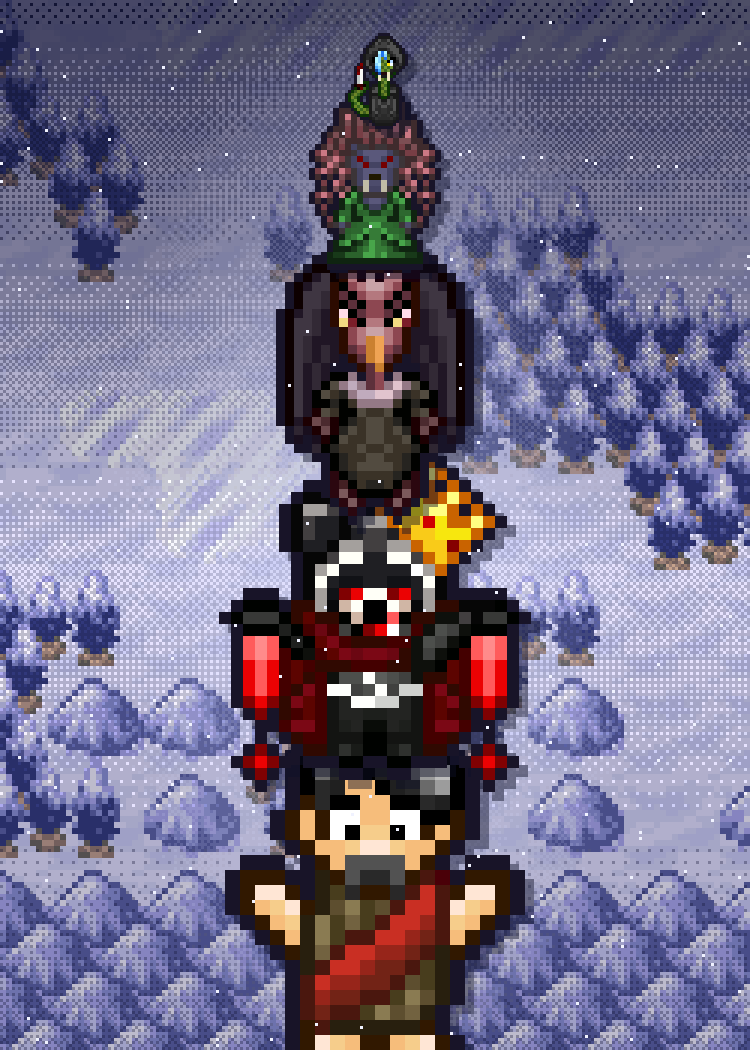
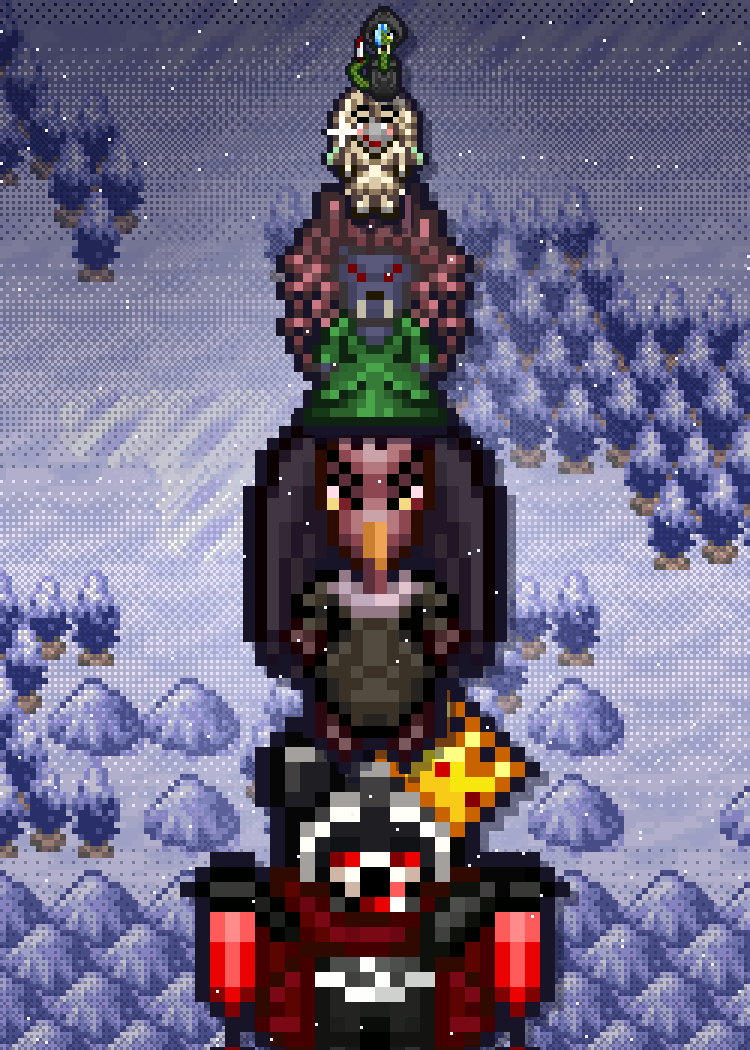
Sleeve-Entwürfe Runde 3: Block C (14–19, Steam Dwarfs/Russland) und Zwischenstand
Claude-Session: https://claude.ai/code/session_01TEnvTzH2xD44R6Unjv7vDo

Changed region(s): [[0.2453, 0.0, 0.7667, 1.0]]

diff --git a/data/sleeve-proposals/runde3/generator/s19_dream_tower.py b/data/sleeve-proposals/runde3/generator/s19_dream_tower.py
@@ -1,14 +1,14 @@
 # -*- coding: utf-8 -*-
 """Sleeve 19 – Matrjoschka-Turm der Dream Landers.
 
-Die Dream Landers stehen einander auf den Schultern – und werden dabei wie Matrjoschka-Puppen
-nach oben hin Stufe um Stufe kleiner (5×, 4×, 3×, 2×, 1×): unten Stellin, darauf Smug Mastermind
-Antonia mit Krone, dann Vullary, Rafflesia und ganz oben der winzige Clausss. Dahinter der
+Die Dream Landers stehen einander auf den Köpfen – und werden dabei wie Matrjoschka-Puppen
+nach oben hin Stufe um Stufe kleiner (5×, 4×, 3×, 2×, 1×): unten Smug Mastermind Antonia mit
+Krone, darauf Vullary, Rafflesia, Smugbeth und ganz oben der winzige Clausss. Dahinter der
 verschneite Nadelwald des Nordens im Schneetreiben, ein fahler Lichtkranz hebt den Turm hervor.
 
 Quellen (MotiveRussia.xcf):
-  Stellin   = Ebene 142 „Ebene #97“          Antonia  = Ebene 218 „MONIA“
-  Vullary   = Ebene 215 „MARY“               Rafflesia = Ebene 228 „RAFFLESIA“
+  Antonia   = Ebene 218 „MONIA“              Vullary   = Ebene 215 „MARY“
+  Rafflesia = Ebene 228 „RAFFLESIA“          Smugbeth  = Ebene 204 „SMUGBETH“
   Clausss   = Ebene 210 „CLAUSSS“
   Wald/Schnee = Ebene 221 „Ebene #6“ (Kulisse der Dream-Lander-Karten)
   Schneeflocken = Ebene 64 „Ebene #122“ (nur deckende Pixel)
@@ -36,14 +36,14 @@ for y in range(H):
             cv.a[y, x] = (cv.a[y, x] * (1 - q * 0.6) + np.array((210, 214, 250)) * q * 0.6).astype(np.uint8)
 
 # ---------- Turm: von unten nach oben, jede Figur steht auf dem Kopf/den Schultern der darunter
-figs = [('c19_stellin', [142], 5), ('c19_antonia', [218], 4), ('c19_vullary', [215], 3),
-        ('c19_raff', [228], 2), ('c19_clausss', [210], 1)]
+figs = [('c19_antonia', [218], 5, None), ('c19_vullary', [215], 4, None), ('c19_raff', [228], 3, None),
+        ('c19_smugbeth', [204], 2, (280, 205, 305, 235)), ('c19_clausss', [210], 1, None)]
 # Zeilen (nativ) über dem Gesicht, auf denen die nächste Figur mit den Füßen steht
-head_top = {'c19_stellin': 4, 'c19_antonia': 5, 'c19_vullary': 3, 'c19_raff': 5, 'c19_clausss': 0}
+head_top = {'c19_antonia': 5, 'c19_vullary': 3, 'c19_raff': 5, 'c19_smugbeth': 3, 'c19_clausss': 0}
 placed = []
-base = H + 10                     # Stellins Füße ragen unten aus dem Bild
-for key, idx, k in figs:
-    s = sprite(key, RU, idx)
+base = H + 14                     # Antonias Füße ragen unten aus dem Bild
+for key, idx, k, box in figs:
+    s = sprite(key, RU, idx, box=box)
     S = up(s, k)
     y = base - S.shape[0]
     x = CX - S.shape[1] // 2

diff --git a/data/sleeve-proposals/runde3/generator/s31_phoenix.py b/data/sleeve-proposals/runde3/generator/s31_phoenix.py
@@ -1,0 +1,65 @@
+# -*- coding: utf-8 -*-
+"""31 Phönix-Aufstieg – Prinzessin Mary steigt mit Phönixflügeln aus einer Flammensäule in den rosa Himmel.
+
+Quellen (MotiveMoe.xcf):
+  - Ebene 556 „Hintergrund-Kopie #1“: rosa Wolkenhimmel (Karte „Cute Princess Mary“)
+  - Ebene 486 „Mary-Kopie“ + 487 „Mary #1“: Mary in Phönixgestalt mit Flügeln (Karte „Cute Princess Mary“), 4x
+  - Ebene 488 „Mary #3“: Flammenkranz, 2x
+  - Ebene 422 „Cute Phoenix“: Flammensäule/Feuerschweif (Karte „Cute Phoenix“), 3x
+  - Ebene 220 „Ebene #105“: kleine Feuervögel (Karte „Victory Phoenix Cannon“), 3x
+  Strahlenkranz: gedithert, selbst erstellt in den Orangetönen der Karte.
+"""
+from common import *
+import numpy as np, math
+
+F = 'MotiveMoe'
+W_, H_ = 250, 350
+
+
+def build():
+    cv = Canvas(W_, H_)
+    sky = layer(F, 556)[63:376, 100:350, :3]           # 313 Zeilen
+    ext = sky[::-1][:H_ - sky.shape[0]]
+    cv.a[:] = np.concatenate([sky, ext], 0)
+
+    # Strahlenkranz um die Mitte (Farbe wie im Kartenhintergrund)
+    CX, CY = 125, 128
+    Y, X = np.mgrid[0:H_, 0:W_]
+    ang = np.arctan2(Y - CY, X - CX)
+    r = np.hypot(X - CX, Y - CY)
+    wedge = (np.floor((ang + math.pi) / (2 * math.pi / 24)).astype(int) % 2) == 0
+    t = np.clip(1 - r / 230.0, 0, 1) * 0.85
+    lit = wedge & (t > BAYER4[Y % 4, X % 4])
+    a = cv.a.astype(float)
+    a[lit] = a[lit] * 0.45 + np.array((255, 170, 80)) * 0.55
+    cv.a[:] = a.astype(np.uint8)
+
+    # Flammenkranz 2x hinter Mary
+    burst = compose(F, [488])
+    B2 = up(burst, 2)
+    cv.paste(B2, CX - B2.shape[1] // 2, CY - 150)
+
+    # Feuerschweif unter Mary (Flammensäule, 3x) – runde Spitze oben an ihren Füßen
+    trail = compose(F, [422])
+    trail = trail[:96]                                    # ohne kleinen Vogel/Schatten am Ende
+    T3 = up(trail, 3)
+    cv.paste(T3, CX - T3.shape[1] // 2, 214)
+
+    # kleine Feuervögel begleiten sie
+    bird = sprite('e31_firebird', F, [220])
+    b3 = up(bird, 3)
+    cv.paste(b3, 14, 262)
+    cv.paste(flip(b3), 178, 238)
+    cv.paste(up(bird, 2), 48, 312)
+    cv.paste(up(bird, 2), 190, 300)
+
+    # Mary mit Phönixflügeln 3x
+    mary = sprite('e31_mary_phoenix', F, [486, 487])
+    M4 = up(mary, 4)
+    cv.paste(M4, CX - M4.shape[1] // 2, CY - 96)
+    vignette(cv, 0.3, 0.62)
+    return cv
+
+
+if __name__ == '__main__':
+    print(save(build(), '31_phoenix_aufstieg.png'))

diff --git a/data/sleeve-proposals/runde3/generator/s15_steam_crest.py b/data/sleeve-proposals/runde3/generator/s15_steam_crest.py
@@ -1,15 +1,15 @@
 # -*- coding: utf-8 -*-
 """Sleeve 15 – Wappen der Dampfzwerge (heraldische Komposition ohne Text).
 
-Schildfigur ist der goldene Dampf-Panzer des Steam Dwarf Engineer, Schildhalter sind zwei (gespiegelte)
-Zwergen-Mechaniker mit Schraubenschlüssel. Aus ihren Dampfrohren steigen Dampfsäulen als Helmdecke
-auf, unten bilden Fässer den Sockel über einem Lavastreifen; dahinter ein Strahlenkranz in Glutfarben.
+Schildfigur ist der goldene Dampf-Panzer des Steam Dwarf Engineer (6×), Schildhalter sind zwei
+(gespiegelte) Zwergen-Mechaniker mit Schraubenschlüssel. Aus ihren Dampfrohren steigen Dampfsäulen als
+Helmdecke auf; alle stehen auf einem Krustenufer über einem Lavastreifen, dahinter ein Strahlenkranz
+in Glutfarben.
 
 Quellen (MotiveSteamDwarfs.xcf, Karte „Steam Dwarf Engineer“):
   Panzer (Engineer)  = Ebene 419
   Mechaniker         = Ebenen 417 (Schraubenschlüssel) + 418
   Dampf              = Ebene 415 (Dampfsäule), 414 (Doppelsäule)
-  Fässer             = Ebene 443 (Karte „Steam Dwarf Brewer“)
   Lava / Kruste      = Ebenen 444 / 445
 """
 from c_util import *
@@ -35,7 +35,6 @@ for y in range(H):
 eng = sprite('c15_eng', SD, [419])
 comp = sprite('c15_comp', SD, [417, 418])
 steam1 = sprite('c14_steam1', SD, [415])
-barrels = parts(sprite('c14_barrels', SD, [443]), dil=1)
 lava = tex('c14_lava', SD, 444, (100, 400, 116, 416))
 crust = tex('c14_crust', SD, 445, (80, 280, 96, 296))
 
@@ -61,7 +60,7 @@ px, py = tipx - 12 * 2, cy_ + 6 - P.shape[0]
 cv.paste(P, px, py)
 cv.paste(flip(P), W - px - P.shape[1], py)
 
-# ---------- Uferkruste als Standfläche, zwei Fässer vor den Füßen
+# ---------- Uferkruste als Standfläche
 tile_fill(cv, crust, 0, GROUND, W, BASE, k=2)
 shade_rows(cv, GROUND, BASE, 0.0, 0.4, (30, 6, 8))
 cv.rect(0, GROUND, W, GROUND + 1, (255, 170, 90))

diff --git a/data/sleeve-proposals/runde3/notes_C.md b/data/sleeve-proposals/runde3/notes_C.md
@@ -1,0 +1,12 @@
+# Block C – Sleeves 14–19 (Steam Dwarfs / Russland)
+
+NN | Titel | Idee | Quellen
+---|---|---|---
+14 | Lava Diver | Querschnitt durch einen Lavasee: oben auf Krustenvorsprüngen Brewer (mit Fässern) und Miner (Bohrer steckt im Fels), unten stapft der Diver (5×) über den Grund; seine Dampfsäule steigt durch die Lava und bricht an der Oberfläche als Wolke hervor | MotiveSteamDwarfs: Diver 420–424, Brewer 440–442, Fässer 443, Miner 437–439, Dampf 414/415, Texturen 444/445
+15 | Steam Crest | Wappen ohne Text: goldener Dampf-Panzer des Engineer (6×) als Schildfigur, zwei gespiegelte Mechaniker mit Schraubenschlüssel als Schildhalter, deren Dampfsäulen die Helmdecke bilden; Strahlenkranz in Glutfarben, Lava-Sockel | MotiveSteamDwarfs: Engineer 419, Mechaniker 417+418, Dampf 415, Lava/Kruste 444/445
+16 | Dwarf King | Hofporträt: Güldefaber (7×) als Brustbild vor der Felswand seines Stollens, darüber in der dunklen Thronnische sein goldener Fass-Hammer mit Glitzer, links/rechts zwei Dragon Pilots als Garde auf Felssimsen, Dampf aus ihren Drachenhelmen | Motive: Güldefaber 266, Hammer/Fässer 265, Glitzer 264, Felswand 874; MotiveSteamDwarfs: Dragon Pilot 429, Dampf 415
+17 | Hydra Duel | Blick über die Schulter des Bärenreiters (von hinten, 4×) am verschneiten Ufer auf die dreiköpfige Nothern Hydra (3×), die aus dem Nordmeer steigt; Schneegestöber | MotiveRussia: Bärenreiter-Rücken 76, Nothern Hydra 9, Meer/Ufer/Wald 221, Schneeflocken 64
+18 | White Parade | Stellin grüßt im Vordergrund, zwei Kolonnen Schneemann-Bannerträger marschieren wie Matrjoschkas gestaffelt (1×–4×) entlang eines Eisweges vom Eiskristall-Wall heran, Heli-Trooper darüber | MotiveRussia: Stellin 142, Bannerträger 91, Heli-Trooper 12/37, Eiswall/Schnee/Schraffur aus Ebene 230
+19 | Dream Tower | Matrjoschka-Turm: die Dream Landers stehen einander auf den Köpfen und werden nach oben 5×→1× kleiner (Antonia, Vullary, Rafflesia, Smugbeth, Clausss), vor verschneitem Nadelwald mit fahlem Lichtkranz | MotiveRussia: MONIA 218, MARY 215, RAFFLESIA 228, SMUGBETH 204, CLAUSSS 210, Wald 221, Schneeflocken 64
+
+Gemeinsame Hilfen: `generator/c_util.py` (Texturausschnitte, Kacheln, Dither-Verläufe). Sprite-Cache: `generator/sprites3/c14_*…c19_*`.
